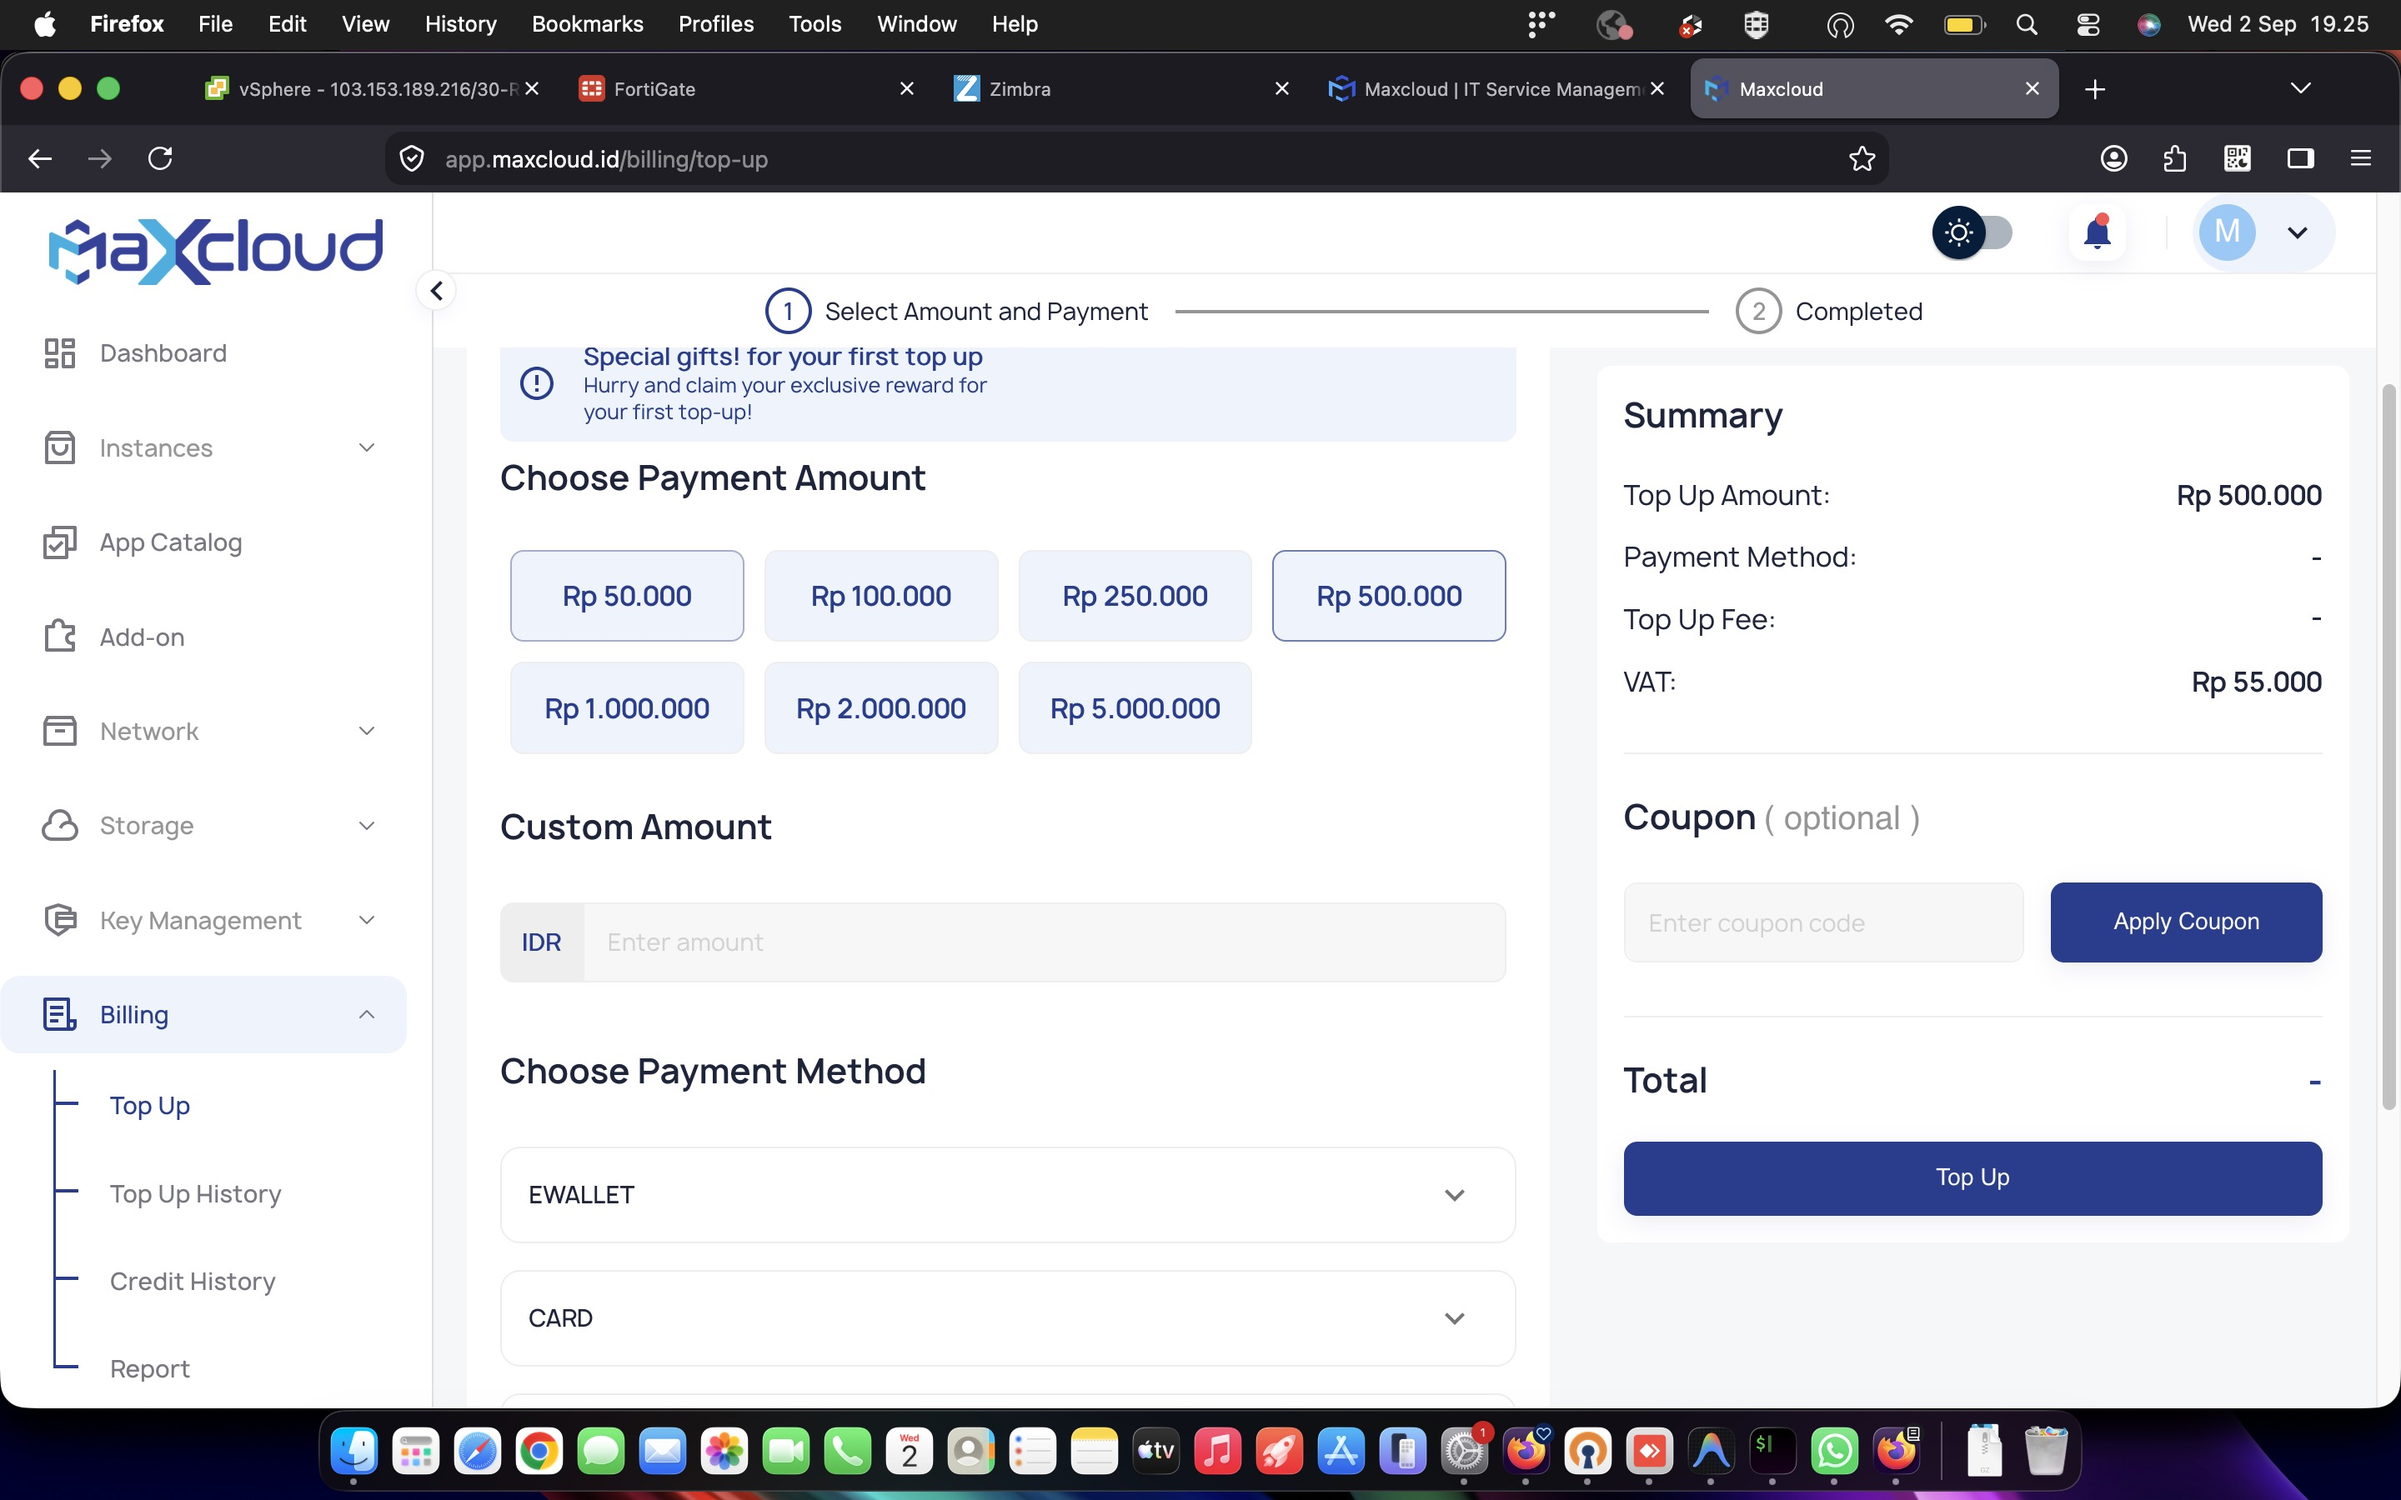
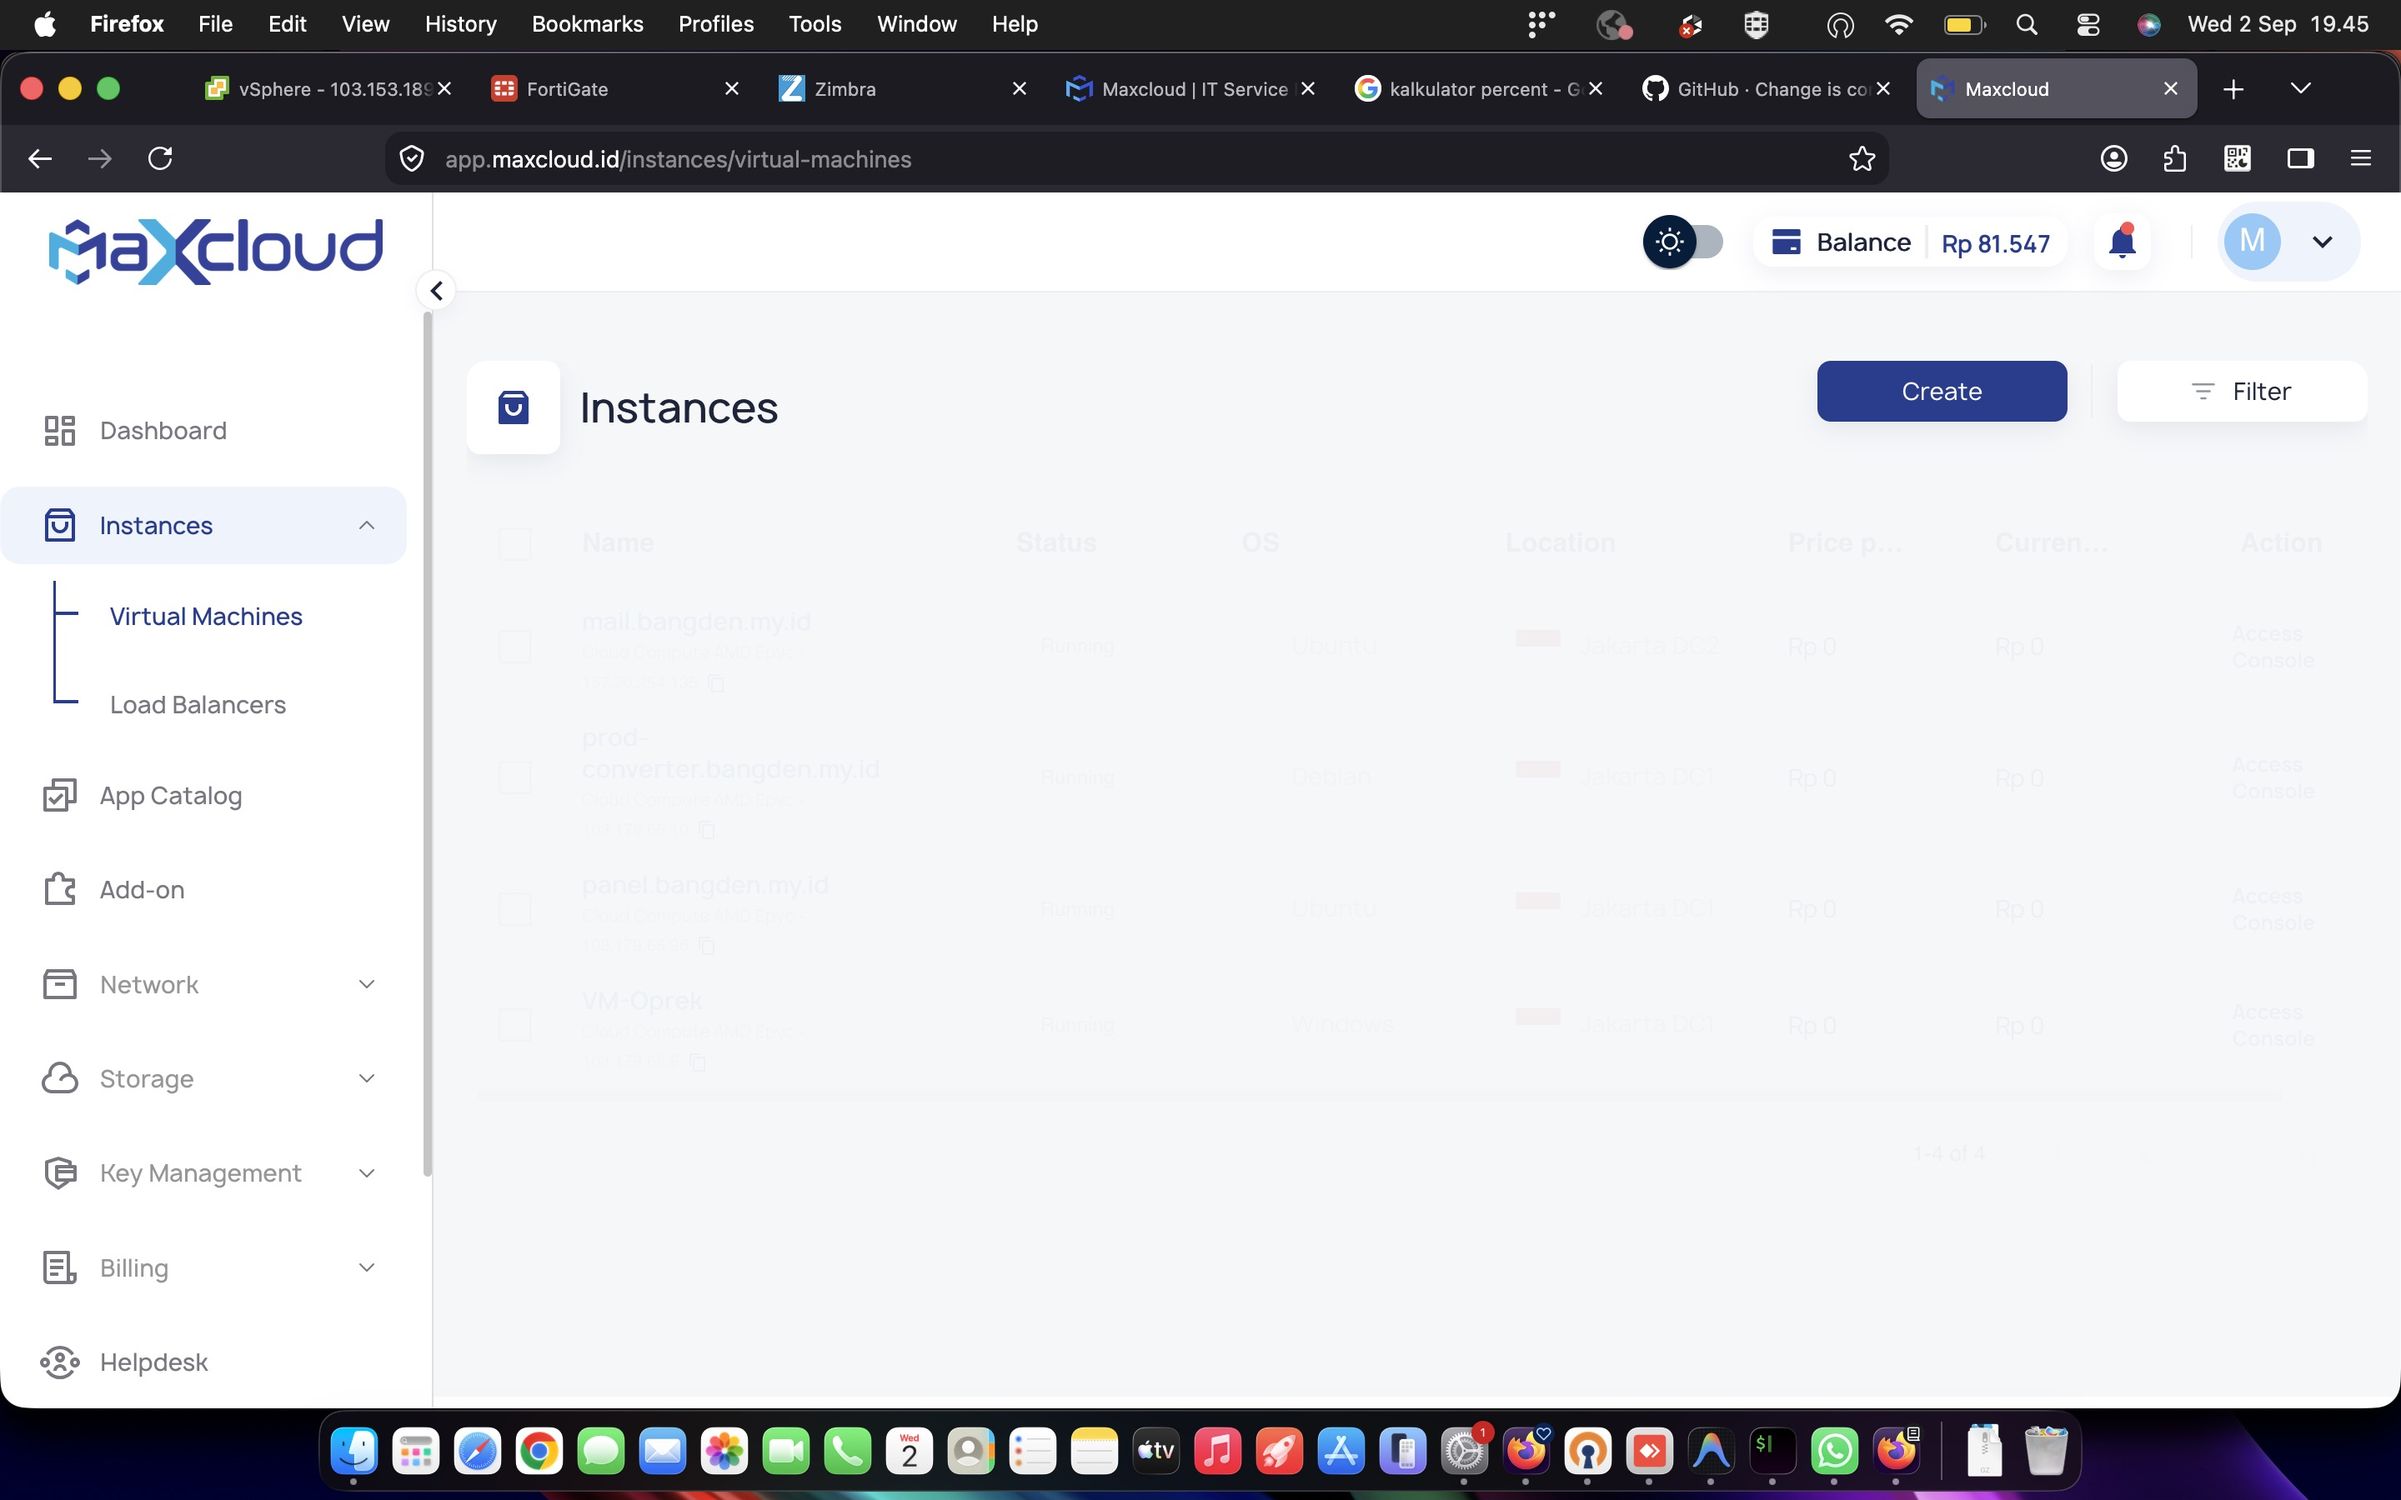
feat: implement default addon configuration seeding and auto-initialization

diff --git a/laravel/app/Http/Controllers/Api/AddonController.php b/laravel/app/Http/Controllers/Api/AddonController.php
@@ -18,6 +18,8 @@ class AddonController extends Controller
             return response()->json(['error' => 'Access denied: Only Administrators can access add-ons & integrations configuration.'], 403);
         }
 
+        $this->ensureDefaults();
+
         $addons = AddonConfig::orderBy('category')->orderBy('name')->get();
         return response()->json([
             'addons' => $addons,
@@ -159,5 +161,103 @@ class AddonController extends Controller
             'tested_at' => now()->toIso8601String(),
             'addon' => $addon,
         ]);
+    }
+
+    private function ensureDefaults(): void
+    {
+        $defaults = [
+            [
+                'addon_key' => 'telegram',
+                'name' => 'Telegram Bot Alerts',
+                'description' => 'Instant real-time ticket alerts, SLA breach warnings, and technician dispatch via Telegram groups or channels.',
+                'category' => 'notification',
+                'is_enabled' => !empty(env('TELEGRAM_BOT_TOKEN')),
+                'config' => [
+                    'bot_token' => env('TELEGRAM_BOT_TOKEN', ''),
+                    'chat_id' => env('TELEGRAM_CHAT_ID', ''),
+                    'notify_new_ticket' => true,
+                    'notify_status_change' => true,
+                    'notify_sla_breach' => true,
+                    'notify_new_comment' => true,
+                ],
+            ],
+            [
+                'addon_key' => 'ldap',
+                'name' => 'Zimbra LDAP & Active Directory SSO',
+                'description' => 'Enterprise Single Sign-On (SSO) authentication with Zimbra Mail Server or Microsoft Active Directory directory service.',
+                'category' => 'authentication',
+                'is_enabled' => filter_var(env('LDAP_ENABLED', false), FILTER_VALIDATE_BOOLEAN),
+                'config' => [
+                    'host' => env('LDAP_HOST', 'mail.bangden.my.id'),
+                    'port' => (int)env('LDAP_PORT', 389),
+                    'base_dn' => env('LDAP_BASE_DN', 'ou=people,dc=bangden,dc=my,dc=id'),
+                    'admin_user' => env('LDAP_ADMIN_USER', ''),
+                    'admin_password' => env('LDAP_ADMIN_PASSWORD', ''),
+                    'use_ssl' => filter_var(env('LDAP_USE_SSL', false), FILTER_VALIDATE_BOOLEAN),
+                    'use_tls' => filter_var(env('LDAP_USE_TLS', false), FILTER_VALIDATE_BOOLEAN),
+                    'default_role' => 'user',
+                ],
+            ],
+            [
+                'addon_key' => 'smtp',
+                'name' => 'SMTP Email Gateway',
+                'description' => 'Automated email notifications for ticket confirmation, technician assignment, SLA alerts, and resolution survey.',
+                'category' => 'notification',
+                'is_enabled' => true,
+                'config' => [
+                    'host' => env('MAIL_HOST', 'smtp.gmail.com'),
+                    'port' => (int)env('MAIL_PORT', 587),
+                    'username' => env('MAIL_USERNAME', ''),
+                    'password' => env('MAIL_PASSWORD', ''),
+                    'encryption' => env('MAIL_ENCRYPTION', 'tls'),
+                    'from_address' => env('MAIL_FROM_ADDRESS', 'helpdesk@company.com'),
+                    'from_name' => env('MAIL_FROM_NAME', 'ITSM Helpdesk'),
+                ],
+            ],
+            [
+                'addon_key' => 'slack',
+                'name' => 'Slack Incoming Webhook',
+                'description' => 'Push rich ticket cards and incident escalation notifications to Slack channels via incoming webhook.',
+                'category' => 'notification',
+                'is_enabled' => false,
+                'config' => [
+                    'webhook_url' => '',
+                    'channel' => '#it-support',
+                    'username' => 'ITSM Bot',
+                ],
+            ],
+            [
+                'addon_key' => 'webhook',
+                'name' => 'Outbound Event Webhooks',
+                'description' => 'Send HTTP POST JSON payloads to external endpoints, SIEM, or third-party APIs upon ticket lifecycle events.',
+                'category' => 'integration',
+                'is_enabled' => false,
+                'config' => [
+                    'endpoint_url' => '',
+                    'secret_token' => '',
+                    'event_ticket_created' => true,
+                    'event_ticket_resolved' => true,
+                ],
+            ],
+            [
+                'addon_key' => 'branding',
+                'name' => 'Company Profile & Theme Customizer',
+                'description' => 'Customize company profile identity, app name, logo, favicon, version, copyright, and color themes.',
+                'category' => 'integration',
+                'is_enabled' => true,
+                'config' => [
+                    'app_name' => 'ITSM Enterprise',
+                    'company_name' => 'PT Bangden Digital Solusindo',
+                    'theme_primary' => '#6366f1',
+                ],
+            ],
+        ];
+
+        foreach ($defaults as $def) {
+            AddonConfig::firstOrCreate(
+                ['addon_key' => $def['addon_key']],
+                $def
+            );
+        }
     }
 }

diff --git a/laravel/database/seeders/DatabaseSeeder.php b/laravel/database/seeders/DatabaseSeeder.php
@@ -64,5 +64,109 @@ class DatabaseSeeder extends Seeder
                 'is_active' => true,
             ]
         );
+
+        // 3. Add-ons & Integrations Default Configs
+        \App\Models\AddonConfig::firstOrCreate(
+            ['addon_key' => 'telegram'],
+            [
+                'name' => 'Telegram Bot Alerts',
+                'description' => 'Instant real-time ticket alerts, SLA breach warnings, and technician dispatch via Telegram groups or channels.',
+                'category' => 'notification',
+                'is_enabled' => !empty(env('TELEGRAM_BOT_TOKEN')),
+                'config' => [
+                    'bot_token' => env('TELEGRAM_BOT_TOKEN', ''),
+                    'chat_id' => env('TELEGRAM_CHAT_ID', ''),
+                    'notify_new_ticket' => true,
+                    'notify_status_change' => true,
+                    'notify_sla_breach' => true,
+                    'notify_new_comment' => true,
+                ],
+            ]
+        );
+
+        \App\Models\AddonConfig::firstOrCreate(
+            ['addon_key' => 'ldap'],
+            [
+                'name' => 'Zimbra LDAP & Active Directory SSO',
+                'description' => 'Enterprise Single Sign-On (SSO) authentication with Zimbra Mail Server or Microsoft Active Directory directory service.',
+                'category' => 'authentication',
+                'is_enabled' => filter_var(env('LDAP_ENABLED', false), FILTER_VALIDATE_BOOLEAN),
+                'config' => [
+                    'host' => env('LDAP_HOST', 'mail.bangden.my.id'),
+                    'port' => (int)env('LDAP_PORT', 389),
+                    'base_dn' => env('LDAP_BASE_DN', 'ou=people,dc=bangden,dc=my,dc=id'),
+                    'admin_user' => env('LDAP_ADMIN_USER', ''),
+                    'admin_password' => env('LDAP_ADMIN_PASSWORD', ''),
+                    'use_ssl' => filter_var(env('LDAP_USE_SSL', false), FILTER_VALIDATE_BOOLEAN),
+                    'use_tls' => filter_var(env('LDAP_USE_TLS', false), FILTER_VALIDATE_BOOLEAN),
+                    'default_role' => 'user',
+                ],
+            ]
+        );
+
+        \App\Models\AddonConfig::firstOrCreate(
+            ['addon_key' => 'smtp'],
+            [
+                'name' => 'SMTP Email Gateway',
+                'description' => 'Automated email notifications for ticket confirmation, technician assignment, SLA alerts, and resolution survey.',
+                'category' => 'notification',
+                'is_enabled' => true,
+                'config' => [
+                    'host' => env('MAIL_HOST', 'smtp.gmail.com'),
+                    'port' => (int)env('MAIL_PORT', 587),
+                    'username' => env('MAIL_USERNAME', ''),
+                    'password' => env('MAIL_PASSWORD', ''),
+                    'encryption' => env('MAIL_ENCRYPTION', 'tls'),
+                    'from_address' => env('MAIL_FROM_ADDRESS', 'helpdesk@company.com'),
+                    'from_name' => env('MAIL_FROM_NAME', 'ITSM Helpdesk'),
+                ],
+            ]
+        );
+
+        \App\Models\AddonConfig::firstOrCreate(
+            ['addon_key' => 'slack'],
+            [
+                'name' => 'Slack Incoming Webhook',
+                'description' => 'Push rich ticket cards and incident escalation notifications to Slack channels via incoming webhook.',
+                'category' => 'notification',
+                'is_enabled' => false,
+                'config' => [
+                    'webhook_url' => '',
+                    'channel' => '#it-support',
+                    'username' => 'ITSM Bot',
+                ],
+            ]
+        );
+
+        \App\Models\AddonConfig::firstOrCreate(
+            ['addon_key' => 'webhook'],
+            [
+                'name' => 'Outbound Event Webhooks',
+                'description' => 'Send HTTP POST JSON payloads to external endpoints, SIEM, or third-party APIs upon ticket lifecycle events.',
+                'category' => 'integration',
+                'is_enabled' => false,
+                'config' => [
+                    'endpoint_url' => '',
+                    'secret_token' => '',
+                    'event_ticket_created' => true,
+                    'event_ticket_resolved' => true,
+                ],
+            ]
+        );
+
+        \App\Models\AddonConfig::firstOrCreate(
+            ['addon_key' => 'branding'],
+            [
+                'name' => 'Company Profile & Theme Customizer',
+                'description' => 'Customize company profile identity, app name, logo, favicon, version, copyright, and color themes.',
+                'category' => 'integration',
+                'is_enabled' => true,
+                'config' => [
+                    'app_name' => 'ITSM Enterprise',
+                    'company_name' => 'PT Bangden Digital Solusindo',
+                    'theme_primary' => '#6366f1',
+                ],
+            ]
+        );
     }
 }
